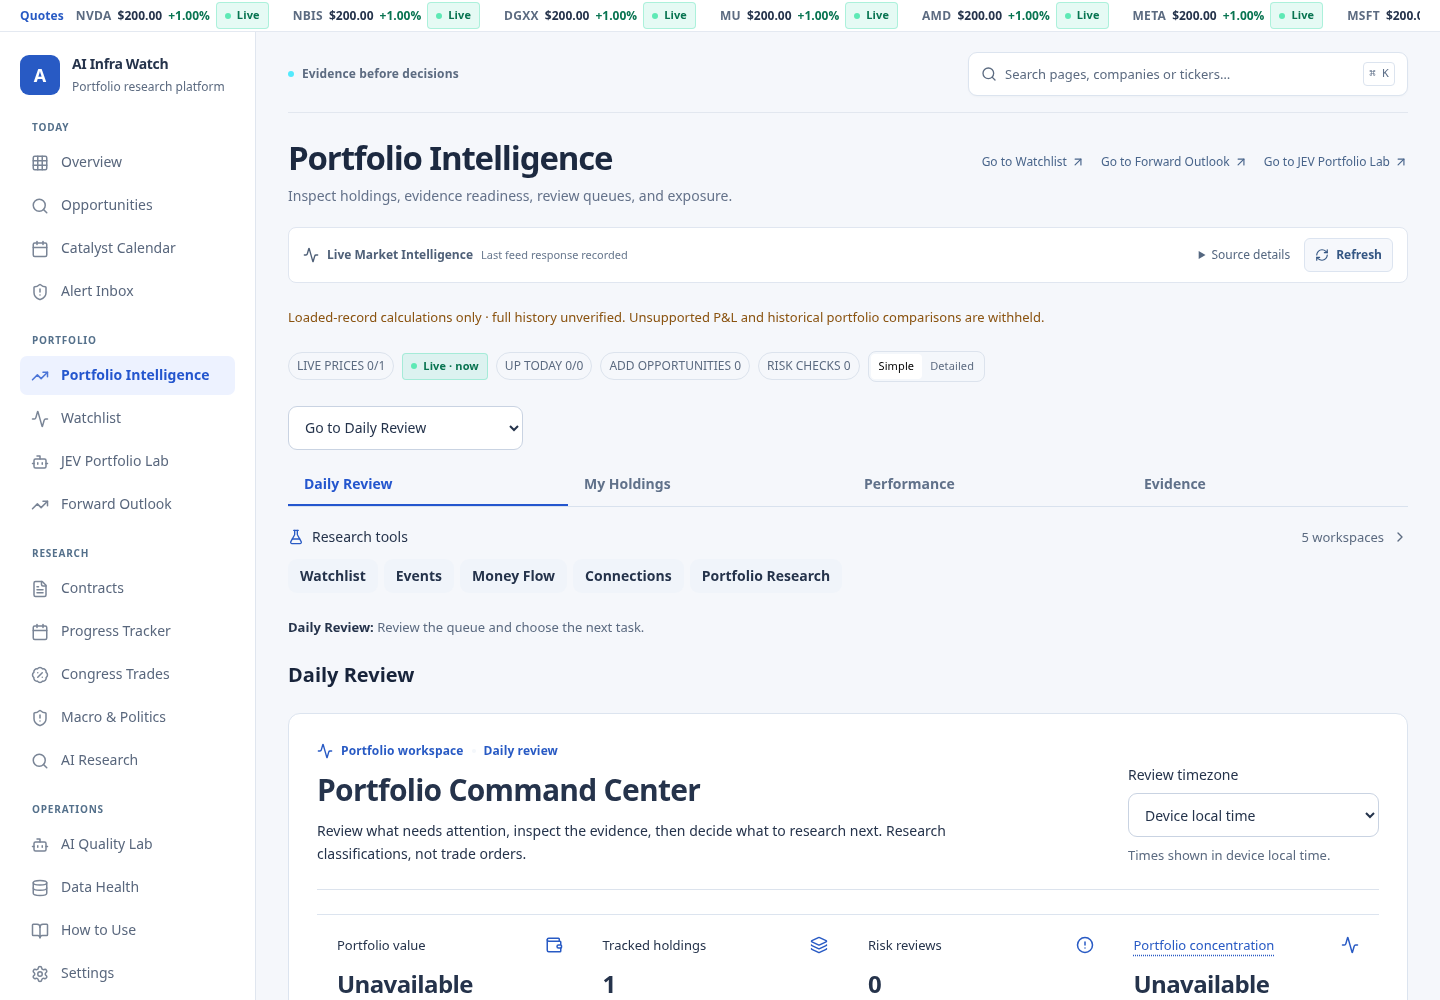
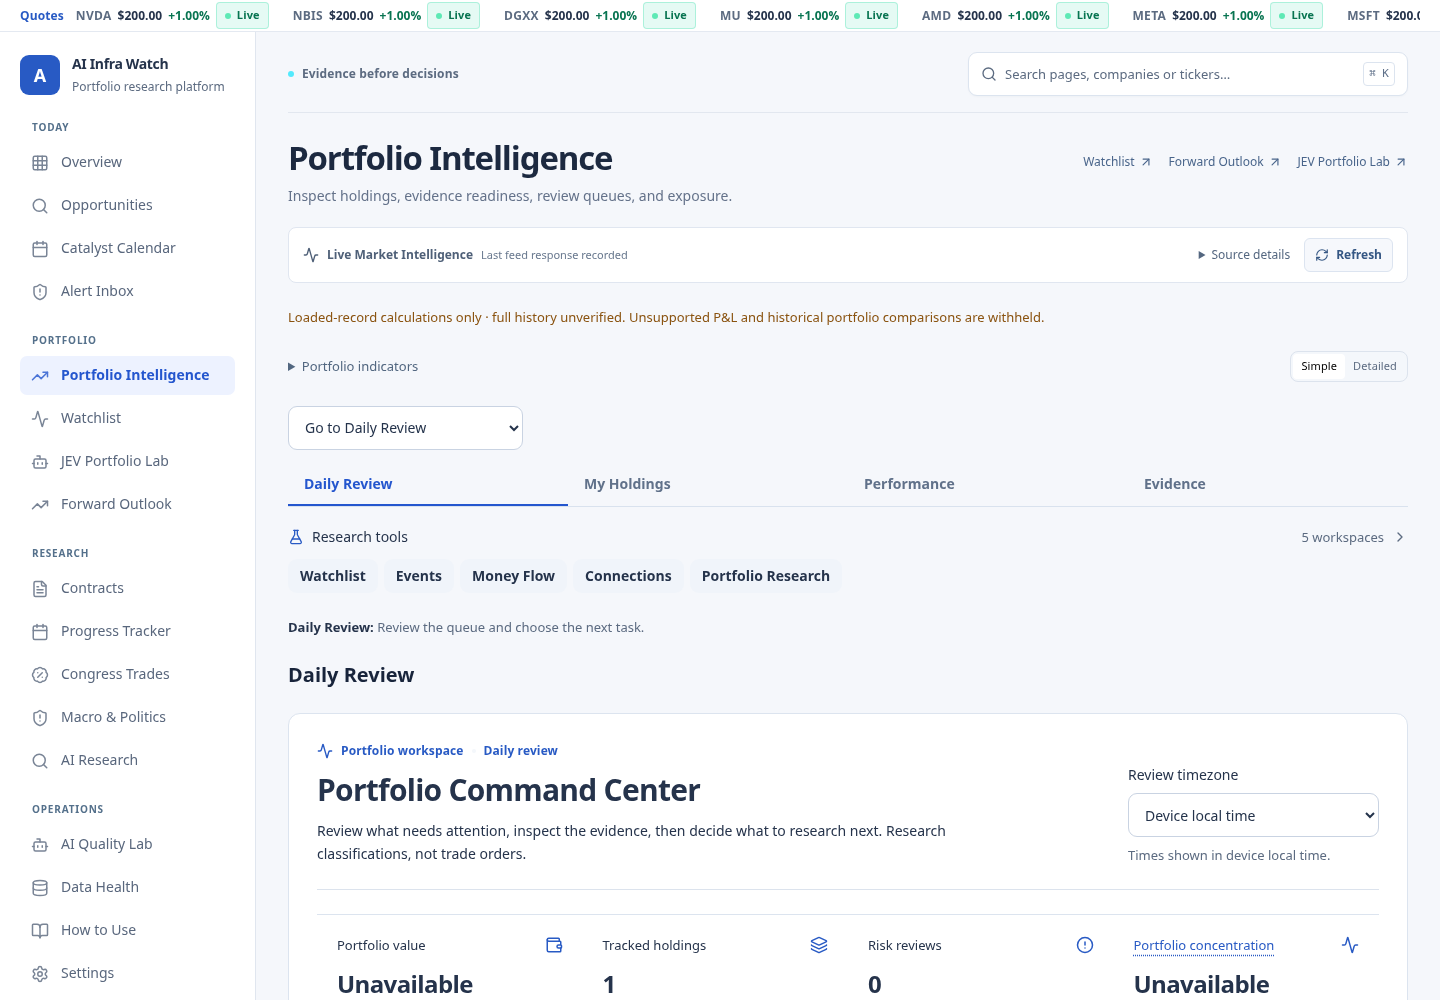
Reduce mobile Portfolio chrome and retain keyboard-accessible detail controls

diff --git a/src/components/PortfolioIntelligence.tsx b/src/components/PortfolioIntelligence.tsx
@@ -849,16 +849,19 @@ export default function PortfolioIntelligence({ livePrices = {}, contracts = [],
       <p data-testid="portfolio-accounting-status" className="text-xs text-amber-200">Loaded-record calculations only · full history unverified. Unsupported P&amp;L and historical portfolio comparisons are withheld.</p>
       <div className="aiw-portfolio-statusbar">
         <h1 className="sr-only">Portfolio Overview &amp; Decisions</h1>
-        <div className="flex flex-wrap items-center justify-end gap-2 text-[10px] font-mono text-white/40">
-          <span className="px-2 py-1 rounded-full border border-white/10">LIVE PRICES {stressFreshCount}/{analyses.length}</span>
-          {selectedAnalysis && <FreshnessBadge {...(livePrices[selectedAnalysis.symbol] || {})} labelOverride={selectedAnalysis.liveStale ? 'Last close' : undefined} showAge />}
-          <span className="px-2 py-1 rounded-full border border-white/10">UP TODAY {breadthPositive}/{breadthCoverage}</span>
-          <span className="px-2 py-1 rounded-full border border-white/10">ADD OPPORTUNITIES {addReviews}</span>
-          <span className="px-2 py-1 rounded-full border border-white/10">RISK CHECKS {riskReviews}</span>
-          <div className="flex items-center rounded-lg border border-white/10 bg-white/[.02] p-0.5" aria-label="Portfolio view density">
-            <button type="button" onClick={() => changeViewMode('simple')} aria-pressed={viewMode === 'simple'} className={'px-2 py-1 rounded text-[9px] uppercase ' + (viewMode === 'simple' ? 'bg-white text-black' : 'text-white/45 hover:text-white')}>Simple</button>
-            <button type="button" onClick={() => changeViewMode('detailed')} aria-pressed={viewMode === 'detailed'} className={'px-2 py-1 rounded text-[9px] uppercase ' + (viewMode === 'detailed' ? 'bg-white text-black' : 'text-white/45 hover:text-white')}>Detailed</button>
+        <details className="aiw-portfolio-indicators text-xs">
+          <summary className="cursor-pointer font-medium">Portfolio indicators</summary>
+          <div className="mt-2 flex flex-wrap items-center gap-2 text-[10px] font-mono text-white/40">
+            <span className="px-2 py-1 rounded-full border border-white/10">LIVE PRICES {stressFreshCount}/{analyses.length}</span>
+            {selectedAnalysis && <FreshnessBadge {...(livePrices[selectedAnalysis.symbol] || {})} labelOverride={selectedAnalysis.liveStale ? 'Last close' : undefined} showAge />}
+            <span className="px-2 py-1 rounded-full border border-white/10">UP TODAY {breadthPositive}/{breadthCoverage}</span>
+            <span className="px-2 py-1 rounded-full border border-white/10">ADD OPPORTUNITIES {addReviews}</span>
+            <span className="px-2 py-1 rounded-full border border-white/10">RISK CHECKS {riskReviews}</span>
           </div>
+        </details>
+        <div className="flex items-center rounded-lg border border-white/10 bg-white/[.02] p-0.5" aria-label="Portfolio view density">
+          <button type="button" onClick={() => changeViewMode('simple')} aria-pressed={viewMode === 'simple'} className={'px-2 py-1 rounded text-[9px] uppercase ' + (viewMode === 'simple' ? 'bg-white text-black' : 'text-white/45 hover:text-white')}>Simple</button>
+          <button type="button" onClick={() => changeViewMode('detailed')} aria-pressed={viewMode === 'detailed'} className={'px-2 py-1 rounded text-[9px] uppercase ' + (viewMode === 'detailed' ? 'bg-white text-black' : 'text-white/45 hover:text-white')}>Detailed</button>
         </div>
       </div>
 

diff --git a/src/index.css b/src/index.css
@@ -720,12 +720,15 @@ body { background: #f5f7fb; }
 .aiw-light-workspace [data-testid="pre-trade-gate"] details > .grid { grid-template-columns: 1fr; }
 .aiw-light-workspace [data-testid="pre-trade-gate"] details > .grid > div { display: grid; grid-template-columns: 65px minmax(130px, 1fr) 2fr; gap: 8px; align-items: baseline; border: 0; border-bottom: 1px solid #dce4ef; border-radius: 0; background: transparent; }
 .aiw-light-workspace .aiw-portfolio-statusbar { display: flex; justify-content: space-between; align-items: center; gap: 12px; }
+.aiw-light-workspace .aiw-portfolio-indicators { color: #526780; }
 .aiw-light-workspace .aiw-search-key { color: #60718a; font-size: 11px; padding: 3px 5px; border: 1px solid #dce4ef; border-radius: 4px; }
 .aiw-light-workspace .font-mono { font-variant-numeric: tabular-nums; }
 @media (max-width: 767px) {
+  .aiw-light-workspace .aiw-top-actions > div:first-child { display: none; }
   .aiw-light-workspace [data-testid="pre-trade-gate"] details > .grid > div { grid-template-columns: 55px 1fr; }
   .aiw-light-workspace [data-testid="pre-trade-gate"] details > .grid > div > div:last-child { grid-column: 2; }
-  .aiw-light-workspace .aiw-portfolio-statusbar { flex-direction: column; align-items: flex-start; }
+  .aiw-light-workspace .aiw-portfolio-statusbar { flex-wrap: wrap; align-items: baseline; }
+  .aiw-light-workspace .aiw-portfolio-indicators[open] { flex-basis: 100%; }
 }
 
 .aiw-light-workspace [data-testid="decision-impact-center"] { background: #fff; border-color: #dce4ef; }

diff --git a/src/components/shell/WorkspaceHeader.tsx b/src/components/shell/WorkspaceHeader.tsx
@@ -16,8 +16,9 @@ export default function WorkspaceHeader({view, onNavigate}: {
     </div>
     <nav aria-label="Suggested next workspaces" className="aiw-related-workspaces">
       {next.map(item => <button key={item.id} type="button"
+        aria-label={'Go to ' + item.label}
         onClick={() => onNavigate(item.id)} className="aiw-workspace-shortcut">
-        <span>Go to {item.label}</span><ArrowUpRight aria-hidden="true" size={14}/>
+        <span>{item.label}</span><ArrowUpRight aria-hidden="true" size={14}/>
       </button>)}
     </nav>
   </header>;

diff --git a/qa/test_application_workspace.py b/qa/test_application_workspace.py
@@ -139,3 +139,14 @@ def test_progressive_details_keep_warnings_and_keyboard_access(width, page):
     expect(guide.get_by_text("How Every Stock Connects (In Plain English)", exact=True)).not_to_be_visible()
     guide.locator("summary").click()
     expect(guide.get_by_text("How Every Stock Connects (In Plain English)", exact=True)).to_be_visible()
+
+    page.goto("/portfolio")
+    expect(page.get_by_role("button", name="Simple", exact=True)).to_be_visible()
+    expect(page.get_by_role("button", name="Detailed", exact=True)).to_be_visible()
+    price_indicator = page.locator(".aiw-portfolio-indicators").get_by_text("LIVE PRICES", exact=False)
+    expect(price_indicator).not_to_be_visible()
+    indicators = page.get_by_text("Portfolio indicators", exact=True)
+    indicators.focus()
+    page.keyboard.press("Enter")
+    expect(price_indicator).to_be_visible()
+    expect(page.get_by_test_id("portfolio-accounting-status")).to_be_visible()

diff --git a/docs/release/CODEX-CONTINUATION.md b/docs/release/CODEX-CONTINUATION.md
@@ -5,7 +5,7 @@
 - Active branch: `feature/light-workspace-redesign`, isolated Cloud worktree `/workspace/ai-infra-watch-light-ui`, based on main `529e956254bc73c12ed8d7f4ffa6510f9b3d4442`. Find its open draft PR by head branch; the task attachment and PR checks carry its current identity and exact-head CI.
 - Production: PR #180 has already merged and deployed successfully. Public `https://ai-infra-watch-theta.vercel.app` was verified at READY `dpl_8jCVHBD3ZrnZWsnc9AcdaAE91e1v`, main `529e956254bc73c12ed8d7f4ffa6510f9b3d4442`. Prior rollback is `dpl_7tAgXVLtXbF3Zhh9u2Ac7J3kLDE2` (`347240c7657af8a6f830b254e84bedc10f88d785`). Recheck identities before any future release; do not execute historical PR #180 handoff instructions again.
 - Preserved draft PR #185: `feature/quote-admission-diagnostics`, head `c9db228aa878f14ad9c7f00af0006d838fdb1d3d`, separate quote-health worktree. It is excluded from this UI draft. PR #180's head is frozen for release attestations. All other worktrees and pending changes remain preserved.
-- UI changes: shared light CSS; shell/navigation/feed/search; Overview educational and readiness disclosures; flatter Portfolio navigation/summary and compact statusbar; light auth/holding-dialog/PWA chrome. Financial/API/shared calculation files and release guards are unchanged. UI CI adds the previously omitted application-workspace test file.
+- UI changes: shared light CSS; shell/navigation/feed/search; Overview educational and readiness disclosures; flatter Portfolio navigation/summary, expandable indicators and directly available density controls; light auth/holding-dialog/PWA chrome. Financial/API/shared calculation files and release guards are unchanged. UI CI adds the previously omitted application-workspace test file.
 - Read [design scope, rendered fictional previews and acceptance](../design/LIGHT-WORKSPACE-REDESIGN.md).
 - Local verification: 1,085 Node tests, TypeScript, 57 focused mocked browser checks, 32 offline CI safety checks; final header correction also passed all 10 whole-workspace checks. Security audit and production build passed. CI evidence must match the latest exact branch head; inspect Frontend CI, Security audit and UI API DB Validation rather than assuming an earlier commit applies.
 - No production integration or live portfolio correctness is claimed by fixture tests. Specialized research workflows retain existing behavior; this is an app-wide visual foundation with focused Overview/Portfolio simplification.

diff --git a/docs/design/LIGHT-WORKSPACE-REDESIGN.md b/docs/design/LIGHT-WORKSPACE-REDESIGN.md
@@ -8,9 +8,9 @@ The owner chose a clean light workspace with fewer cards and clearer navigation.
 
 - All 17 existing destinations share a light canvas, white surfaces, navy text, blue active states, readable legacy labels, consistent tables, inputs and charts, and quieter grouped navigation.
 - Workspace titles and related destinations replace large gradient headers, repeated badges and navigation counts. Search, mobile navigation, active-route semantics, browser history and existing deep links remain available.
-- Portfolio uses flat primary section tabs, compact research links and a separated summary row. Duplicate visible Portfolio heading copy is removed; the accessible page heading remains.
+- Portfolio uses flat primary section tabs, compact research links, expandable portfolio indicators and a separated summary row. Simple/Detailed controls remain directly available. Duplicate visible Portfolio heading copy is removed; the accessible page heading remains.
 - Feed source metadata, the ecosystem learning guide and detailed readiness checks expand on demand. The current feed status, refresh control, failures and incomplete portfolio-readiness warning remain visible.
-- Search, sign-in and the portalled native holding dialog use light surfaces. Focus rings, financial status colors and tabular numbers remain distinct. The mobile header no longer overlaps the search context.
+- Search, sign-in and the portalled native holding dialog use light surfaces. Focus rings, financial status colors and tabular numbers remain distinct. The mobile header no longer overlaps the search context; shorter related links and reduced mobile chrome bring the review content into view sooner.
 - PWA browser chrome and install background use the light canvas.
 
 ## Rendered previews
